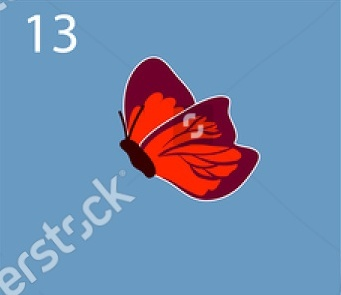
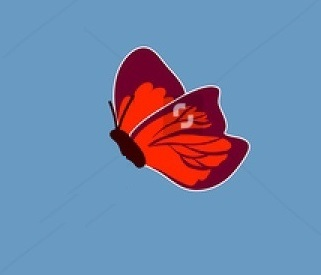
ready, before refactoring

diff --git a/core/src/com/rockbite/bootcamp/MyGdxGame.java b/core/src/com/rockbite/bootcamp/MyGdxGame.java
@@ -5,50 +5,101 @@ import com.badlogic.gdx.Gdx;
 import com.badlogic.gdx.graphics.GL20;
 import com.badlogic.gdx.graphics.Texture;
 import com.badlogic.gdx.graphics.g2d.SpriteBatch;
+import com.badlogic.gdx.graphics.g2d.TextureAtlas;
+import com.badlogic.gdx.utils.Array;
 
 public class MyGdxGame extends ApplicationAdapter {
-	SpriteBatch batch;
-	Texture img;
 
-	float xPos;
-	float yPos;
+    SpriteBatch batch;
+    Texture img;
 
-	private final float delta = 0.2f;
-	private float counter;
-	
-	@Override
-	public void create () {
-		batch = new SpriteBatch();
-		img = new Texture("badlogic.jpg");
-	}
+    //starting position x
+    float xPos = 1000;
+    //starting position x
+    float yPos = 650;
 
-	@Override
-	public void render () {
-		Gdx.gl.glClearColor(0.41015625f, 0.6015625f, 0.7578125f, 1);
-		Gdx.gl.glClear(GL20.GL_COLOR_BUFFER_BIT);
+    //one step of a texture
+    private final float delta = 1;
+    //counter for rendering animation
+    private float counter;
+    //index of region in the texture
+    private int index = 0;
+    //index that show how long yPos must not be changed
+    private int stopIndex = 0;
+    //array of regions from texture
+    private final Array<TextureAtlas.AtlasRegion> regions = new Array<>();
+    //internal path of compiled images
+    private final String internalPathOfCompilingPictures = "images/butterflyAtlas.png";
+    //internal path of TextureAtlas
+    private final String textureInternalPath = "images/butterflyAtlas.png";
 
-		counter += Gdx.graphics.getDeltaTime();
+    @Override
+    public void create() {
+        batch = new SpriteBatch();
+        img = new Texture(textureInternalPath);
+        img.setFilter(Texture.TextureFilter.Nearest, Texture.TextureFilter.Nearest);
 
-		if(counter >= 0.016){
-			animate();
-			counter = 0;
-		}
+        TextureAtlas textureAtlas = new TextureAtlas(internalPathOfCompilingPictures);
 
-		batch.begin();
-		batch.draw(img, xPos, yPos, 150, 200);
-		batch.end();
+        regions.add(textureAtlas.findRegion("1", -1));
+        regions.add(textureAtlas.findRegion("2", -1));
+        regions.add(textureAtlas.findRegion("3", -1));
+        regions.add(textureAtlas.findRegion("4", -1));
+        regions.add(textureAtlas.findRegion("5", -1));
+        regions.add(textureAtlas.findRegion("6", -1));
+        regions.add(textureAtlas.findRegion("7", -1));
+        regions.add(textureAtlas.findRegion("8", -1));
+        regions.add(textureAtlas.findRegion("9", -1));
+        regions.add(textureAtlas.findRegion("10", -1));
+        regions.add(textureAtlas.findRegion("11", -1));
+        regions.add(textureAtlas.findRegion("12", -1));
+        regions.add(textureAtlas.findRegion("13", -1));
+        regions.add(textureAtlas.findRegion("14", -1));
+    }
+
+    @Override
+    public void render() {
+        Gdx.gl.glClearColor(0.41015625f, 0.6015625f, 0.7578125f, 1);
+        Gdx.gl.glClear(GL20.GL_COLOR_BUFFER_BIT);
+
+        counter += Gdx.graphics.getDeltaTime();
+
+        if (counter >= 0.016) {
+            animate();
+            counter = 0;
+        }
+
+        batch.begin();
+        batch.draw(regions.get(index++ % 14), xPos, yPos, 150, 200);
+        batch.end();
 //		System.out.println(Gdx.graphics.getDeltaTime());
-	}
+    }
 
-	private void animate() {
-		xPos += delta;
-		yPos += delta;
-	}
+    void reset() {
+        xPos = 1000;
+        yPos = 650;
+        stopIndex = 0;
+    }
 
-	@Override
-	public void dispose () {
-//		System.out.println("Game Over");
-		batch.dispose();
-		img.dispose();
-	}
+    private void animate() {
+        yPos -= delta;
+        xPos -= delta;
+
+        if (((yPos > 495) && (yPos < 505)) && stopIndex < 100) {
+            yPos += delta;
+            stopIndex++;
+        }
+        if (stopIndex >= 100) {
+            yPos += delta * 2;
+        }
+        if (xPos < 600) {
+            reset();
+        }
+    }
+
+    @Override
+    public void dispose() {
+        batch.dispose();
+        img.dispose();
+    }
 }

diff --git a/desktop/src/com/rockbite/bootcamp/desktop/DesktopLauncher.java b/desktop/src/com/rockbite/bootcamp/desktop/DesktopLauncher.java
@@ -6,8 +6,8 @@ import com.badlogic.gdx.tools.texturepacker.TexturePacker;
 import com.rockbite.bootcamp.MyGdxGame;
 
 public class DesktopLauncher {
-    private static boolean rebuildAtlas = true;
-    private static boolean drawDebugOutline = true; //TODO
+    //Atlas rebuilding flag
+    private final static boolean rebuildAtlas = true;
 
     public static void main(String[] arg) {
 
@@ -16,8 +16,7 @@ public class DesktopLauncher {
             settings.maxWidth = 2048;
             settings.maxHeight = 2048;
             settings.duplicatePadding = false;
-            settings.debug = drawDebugOutline;
-            //TexturePacker.process(settings, source folder this can be in
+            //TexturePacker.process(settings, source folder of pictures to be compiled)
             TexturePacker.process(settings, "pics",
                     "images",
                     "butterflyAtlas");
